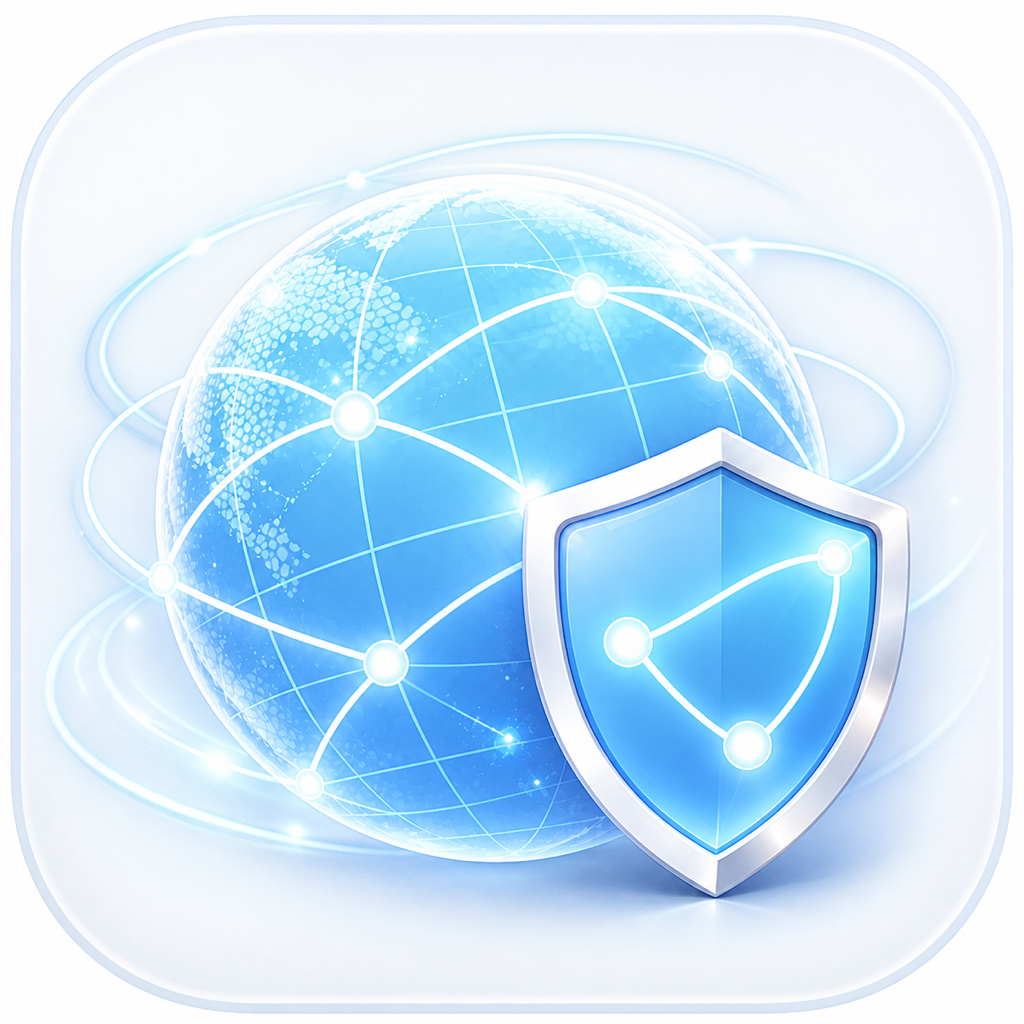
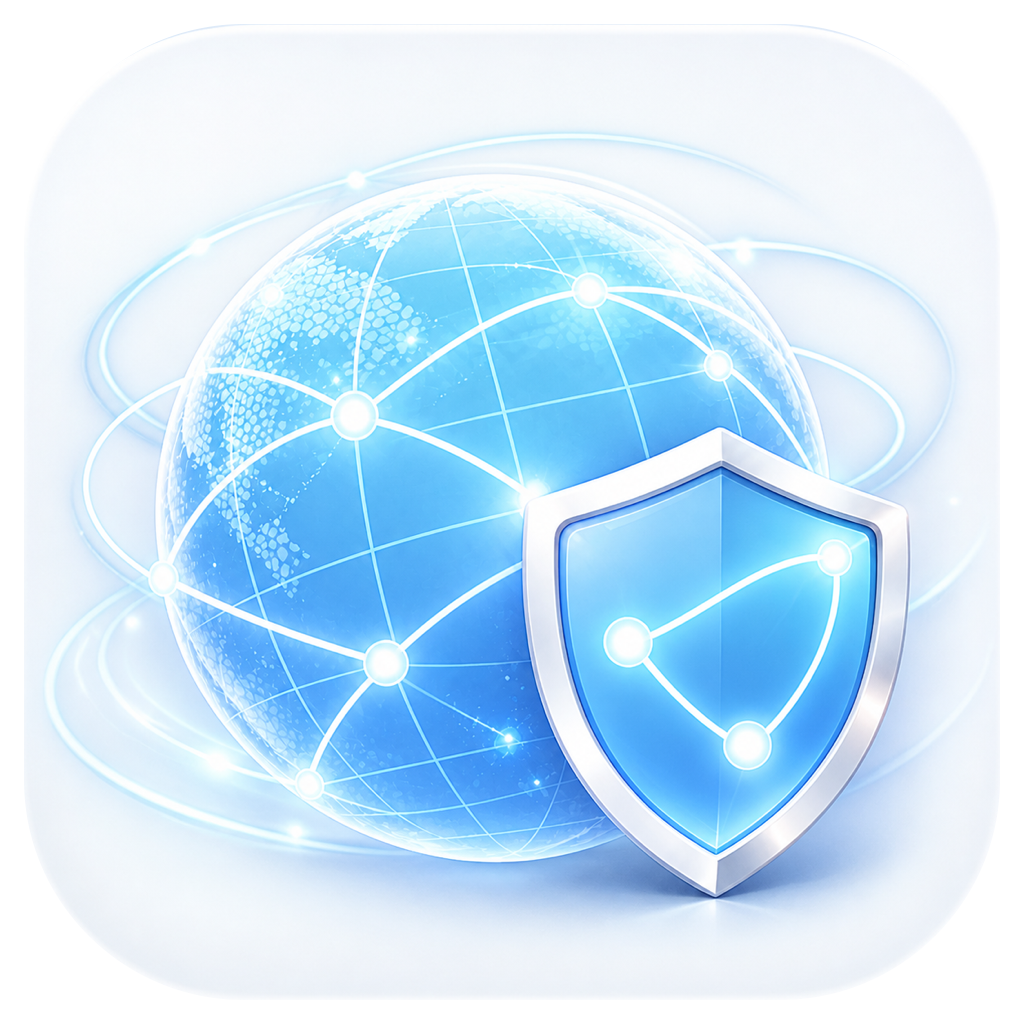
Publish Network Optimizer V4.5.1 update metadata

diff --git a/README.md b/README.md
@@ -1,12 +1,12 @@
 <div align="center">
   <img src="assets/network-optimizer-icon.png" width="144" alt="网络优化器图标">
-  <h1>网络优化器 V4.5.0</h1>
+  <h1>网络优化器 V4.5.1</h1>
   <p><strong>面向 macOS 与 Windows 的 Mihomo / Clash 网络诊断、地区优选与自动恢复工具</strong></p>
   <p>自动发现本机控制端口和订阅节点地区，只在你选择的地区内检测、优选并恢复代理连接。</p>
 
   <p>
     <a href="https://github.com/lris914/network-optimizer-updates/releases/latest">
-      <img src="https://img.shields.io/badge/下载最新版-网络优化器%20V4.5.0-1677ff?style=for-the-badge&logo=github" alt="下载网络优化器 V4.5.0">
+      <img src="https://img.shields.io/badge/下载最新版-网络优化器%20V4.5.1-1677ff?style=for-the-badge&logo=github" alt="下载网络优化器 V4.5.1">
     </a>
   </p>
 
@@ -14,19 +14,18 @@
     <img src="https://img.shields.io/badge/macOS-13%2B-111111?style=flat-square&logo=apple" alt="macOS 13+">
     <img src="https://img.shields.io/badge/Windows-10%20%7C%2011-0078d4?style=flat-square&logo=windows11" alt="Windows 10/11">
     <img src="https://img.shields.io/badge/架构-Universal%20%7C%20x64%20%7C%20ARM64-4c8bf5?style=flat-square" alt="支持架构">
-    <img src="https://img.shields.io/badge/当前版本-V4.5.0-20a464?style=flat-square" alt="V4.5.0">
+    <img src="https://img.shields.io/badge/当前版本-V4.5.1-20a464?style=flat-square" alt="V4.5.1">
   </p>
 </div>
 
 ---
 
-## V4.5.0 更新
+## V4.5.1 更新
 
-- 新增“应用推荐配置并复测”：用户确认后实际修改推荐 DNS，并仅在链路实测明确需要时调整 MTU。
-- 自动展示 DNS、解析次数、DNS 波动、下载和上传的“优化前 → 优化后”真实结果。
-- 不再使用“成功率 +N 个百分点”，直接显示 `0/9 → 9/9 次`等原始数据。
-- 恢复入口改为独立的“恢复与回滚”区域，支持恢复优化前配置或系统自动配置。
-- macOS 首屏重排为平衡的双列布局；Windows 新增上传测速，并保持 x64/ARM64 同步。
+- macOS 首屏连接诊断与本地网络结果卡片统一高度和边界，快捷操作与后台恢复改为更紧凑的独立整行区域。
+- macOS 应用图标改为带真实透明通道的圆角轮廓，旧版启动台不再显示锐利正方形。
+- 构建流程增加图标透明通道与透明四角检查，防止后续版本回归。
+- Windows 版本号同步到 V4.5.1，功能行为保持 V4.5.0 不变。
 
 ## 平台功能
 
@@ -44,15 +43,15 @@
 
 ### macOS
 
-- [下载 Universal DMG 安装包](https://github.com/lris914/network-optimizer-updates/releases/download/v4.5.0/Network-Optimizer-V4.5.0-macOS-Universal-Installer.dmg)
-- [下载 Universal ZIP 更新包](https://github.com/lris914/network-optimizer-updates/releases/download/v4.5.0/Network-Optimizer-V4.5.0-macOS-Universal.zip)
+- [下载 Universal DMG 安装包](https://github.com/lris914/network-optimizer-updates/releases/download/v4.5.1/Network-Optimizer-V4.5.1-macOS-Universal-Installer.dmg)
+- [下载 Universal ZIP 更新包](https://github.com/lris914/network-optimizer-updates/releases/download/v4.5.1/Network-Optimizer-V4.5.1-macOS-Universal.zip)
 
 打开 DMG，将“网络优化器”拖入“Applications（应用程序）”。覆盖旧版时选择“替换”，原有设置会保留。当前安装包使用临时应用签名，没有 Apple Developer ID 公证。
 
 ### Windows
 
-- [下载 Windows x64 版本](https://github.com/lris914/network-optimizer-updates/releases/download/v4.5.0/Network-Optimizer-V4.5.0-Windows-x64.zip) — 绝大多数 Intel / AMD 电脑
-- [下载 Windows ARM64 版本](https://github.com/lris914/network-optimizer-updates/releases/download/v4.5.0/Network-Optimizer-V4.5.0-Windows-ARM64.zip) — Snapdragon 等 ARM Windows 电脑
+- [下载 Windows x64 版本](https://github.com/lris914/network-optimizer-updates/releases/download/v4.5.1/Network-Optimizer-V4.5.1-Windows-x64.zip) — 绝大多数 Intel / AMD 电脑
+- [下载 Windows ARM64 版本](https://github.com/lris914/network-optimizer-updates/releases/download/v4.5.1/Network-Optimizer-V4.5.1-Windows-ARM64.zip) — Snapdragon 等 ARM Windows 电脑
 
 解压后运行 `NetworkOptimizer.exe`。当前版本没有商业代码签名，Windows 可能显示“未知发布者”。
 

diff --git a/Network-Optimizer-V4.5.1-macOS-Universal.md b/Network-Optimizer-V4.5.1-macOS-Universal.md
@@ -1,0 +1,14 @@
+<!-- sparkle-sign-warning:
+IMPORTANT: This file was signed by Sparkle. Any modifications to this file requires updating signatures in appcasts that reference this file! This will involve re-running generate_appcast or sign_update.
+-->
+# 网络优化器 V4.5.1
+
+这是一个界面与图标修复版本。
+
+- 首屏连接诊断与本地网络结果卡片统一高度和边界，减少左右错位与不规则留白。
+- 快捷操作改为独立整行区域，后台自动恢复压缩为单行控制。
+- macOS 应用图标改为带真实透明通道的圆角轮廓，修复旧版启动台显示锐利正方形的问题。
+- 构建门禁新增图标 Alpha 通道和透明四角检查。
+- Windows 版本号同步更新，功能行为保持 V4.5.0 不变。
+
+macOS 在线更新会验证 Sparkle EdDSA 签名。Windows 发布包已通过 NuGet 已知漏洞检查与 Microsoft Defender 扫描；未购买商业代码签名，仍可能出现“未知发布者”提示。
